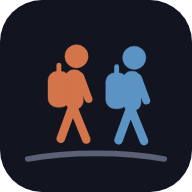
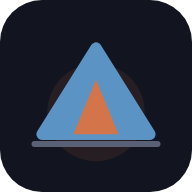
아이콘 — 불 켜진 텐트
배낭 멘 두 사람은 별로였습니다. 옆모습이라 뜻은 맞았지만 32px 에서
색 덩어리 두 개로 뭉개졌고, 홈 화면에서도 눈에 안 들어왔습니다.

텐트는 삼각형이라 16px 까지 형태가 남습니다. 스위스 5박이 전부
캠핑이라 이 여행의 성격에도 맞고요.

문을 배경색으로 뚫으면 빈 삼각형이 되어 표지판처럼 보입니다.
등불색으로 채우면 안에 불이 켜진 것으로 읽혀 두 사람이 그 안에
있다는 뜻이 됩니다. 파란 텐트 + 주황 불빛은 스위스·바르셀로나
도시 색 그대로입니다.

파비콘은 따로 그렸습니다 — 16px 에서는 땅선도 번짐도 안 남으므로
텐트와 불빛만 크게, 획을 굵혀서.

확인 — 180/192/512px 형태 유지, 마스커블에 원형·스퀘어클 마스크를
씌워도 잘림 없음, apple-touch-icon 불투명, 파비콘 16px 에서도
텐트와 불빛이 읽힘.

폰에서는 홈 화면 아이콘을 지우고 다시 추가해야 바뀝니다.

Changed region(s): [[0.125, 0.2188, 0.875, 0.8438]]

diff --git a/service-worker.js b/service-worker.js
@@ -6,7 +6,7 @@
    배포 시 VERSION 만 올리면 캐시가 통째로 교체됩니다.
    =========================================================== */
 
-const VERSION = 'v75';
+const VERSION = 'v76';
 const CACHE   = `honeymoon-2026-${VERSION}`;
 
 const SHELL = [
